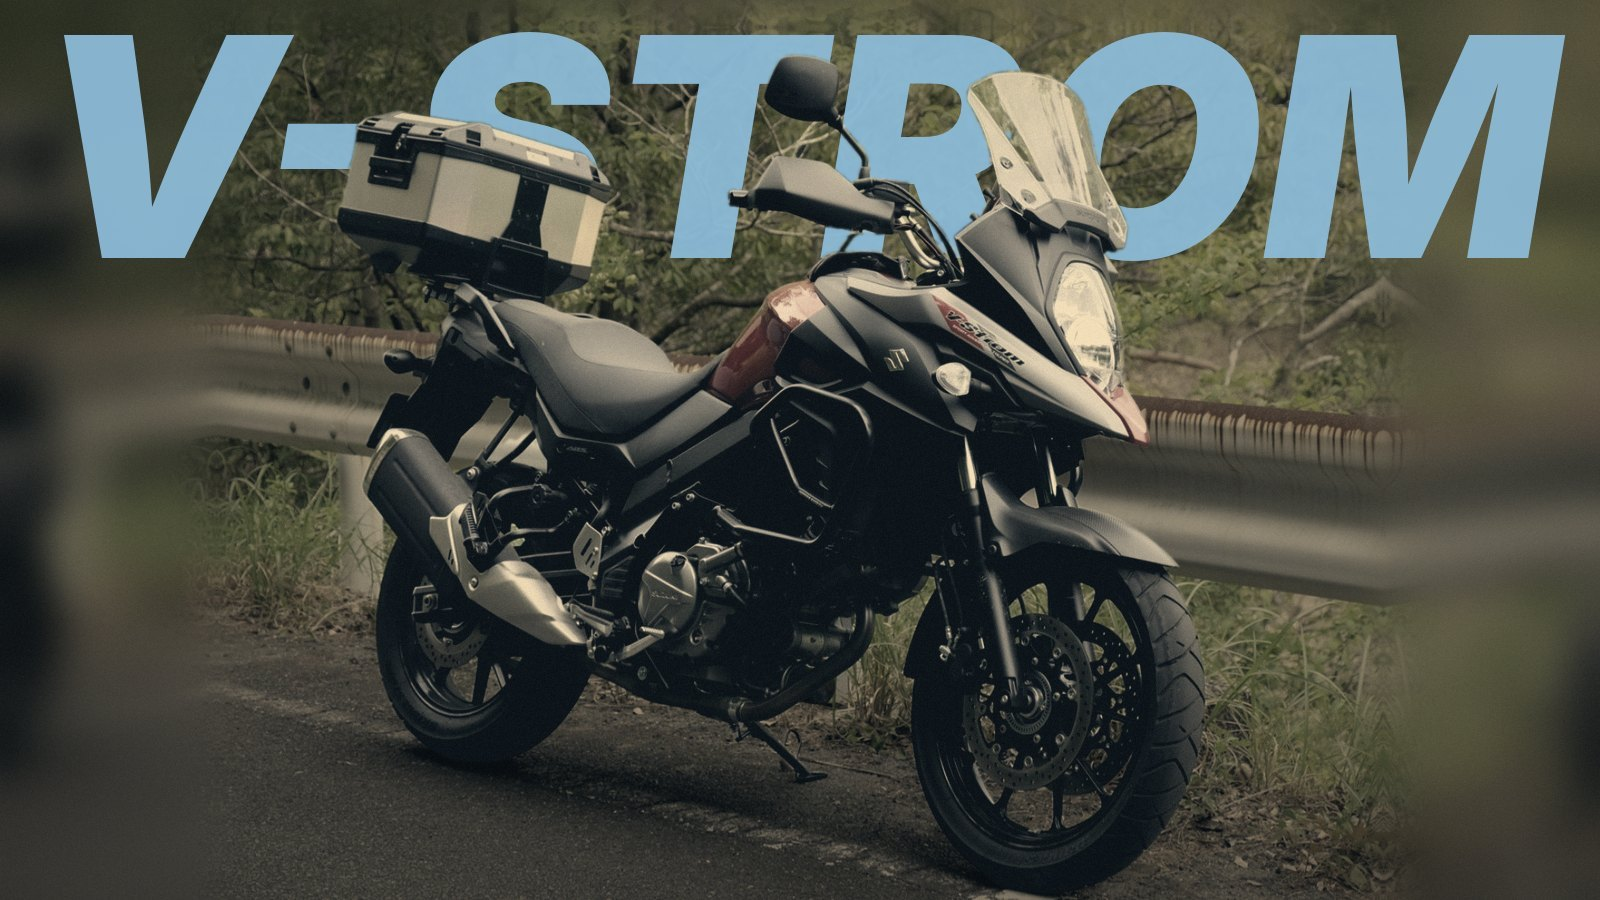
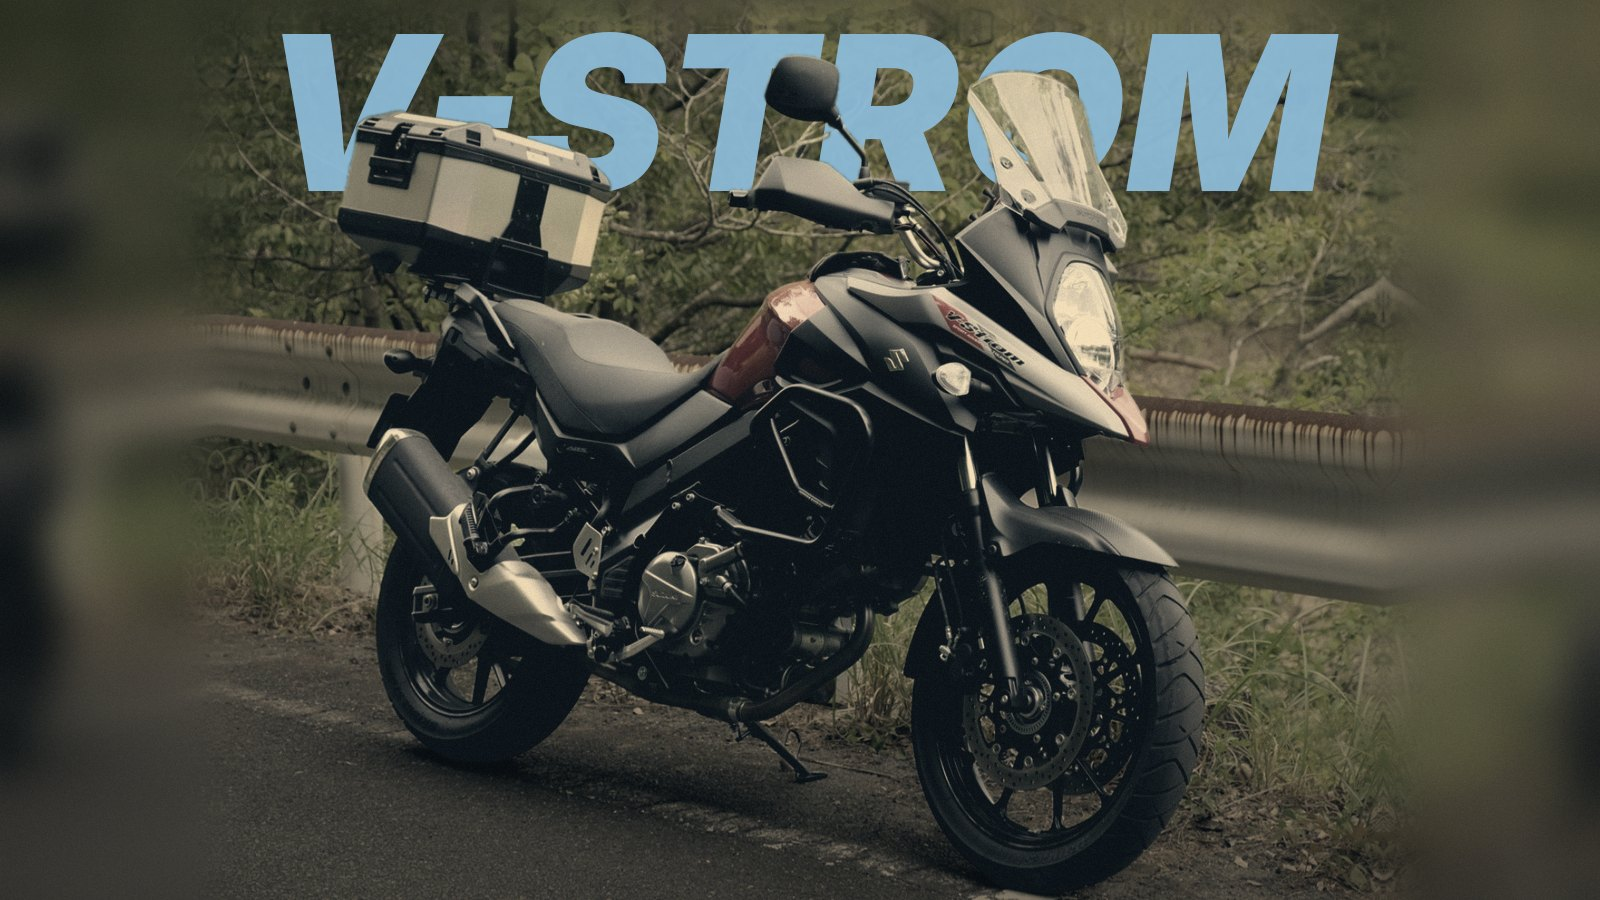
V-Strom name sized to fit inside the project photo box
Claude-Session: https://claude.ai/code/session_01YACKgs4dnuNyqyPUQ8TVpP

Changed region(s): [[0.0312, 0.0311, 1.0, 0.3111]]

diff --git a/tools/silhouettes/hero_lib.py b/tools/silhouettes/hero_lib.py
@@ -21,6 +21,7 @@ def tan(img):
     a=a*(1-TAN_MIX)+tone*TAN_MIX
     return Image.fromarray(np.clip(a*255,0,255).astype(np.uint8))
 FRONT=False
+TW=None
 MAXTOP=0.35   # more than this hidden at the top and the name goes to the bottom, in front
 def hero(i,big,label,year=""):
     global W,H
@@ -40,7 +41,7 @@ def hero(i,big,label,year=""):
     # name: Inter Black Italic, stretched edge to edge across the top of the header, behind the bike
     FONT=FD+'Inter-BlackItalic.otf'; PAD=int(W*0.02)
     f=ImageFont.truetype(FONT,400); bb=d.textbbox((0,0),big,font=f)
-    f=ImageFont.truetype(FONT,int(400*(W-2*PAD)/(bb[2]-bb[0])))
+    f=ImageFont.truetype(FONT,int(400*(TW or W-2*PAD)/(bb[2]-bb[0])))
     bb=d.textbbox((0,0),big,font=f)
     if bb[3]-bb[1]>H*0.42: f=ImageFont.truetype(FONT,int(f.size*H*0.42/(bb[3]-bb[1]))); bb=d.textbbox((0,0),big,font=f)
     ts=((W-(bb[2]-bb[0]))/2-bb[0], PAD-bb[1])
